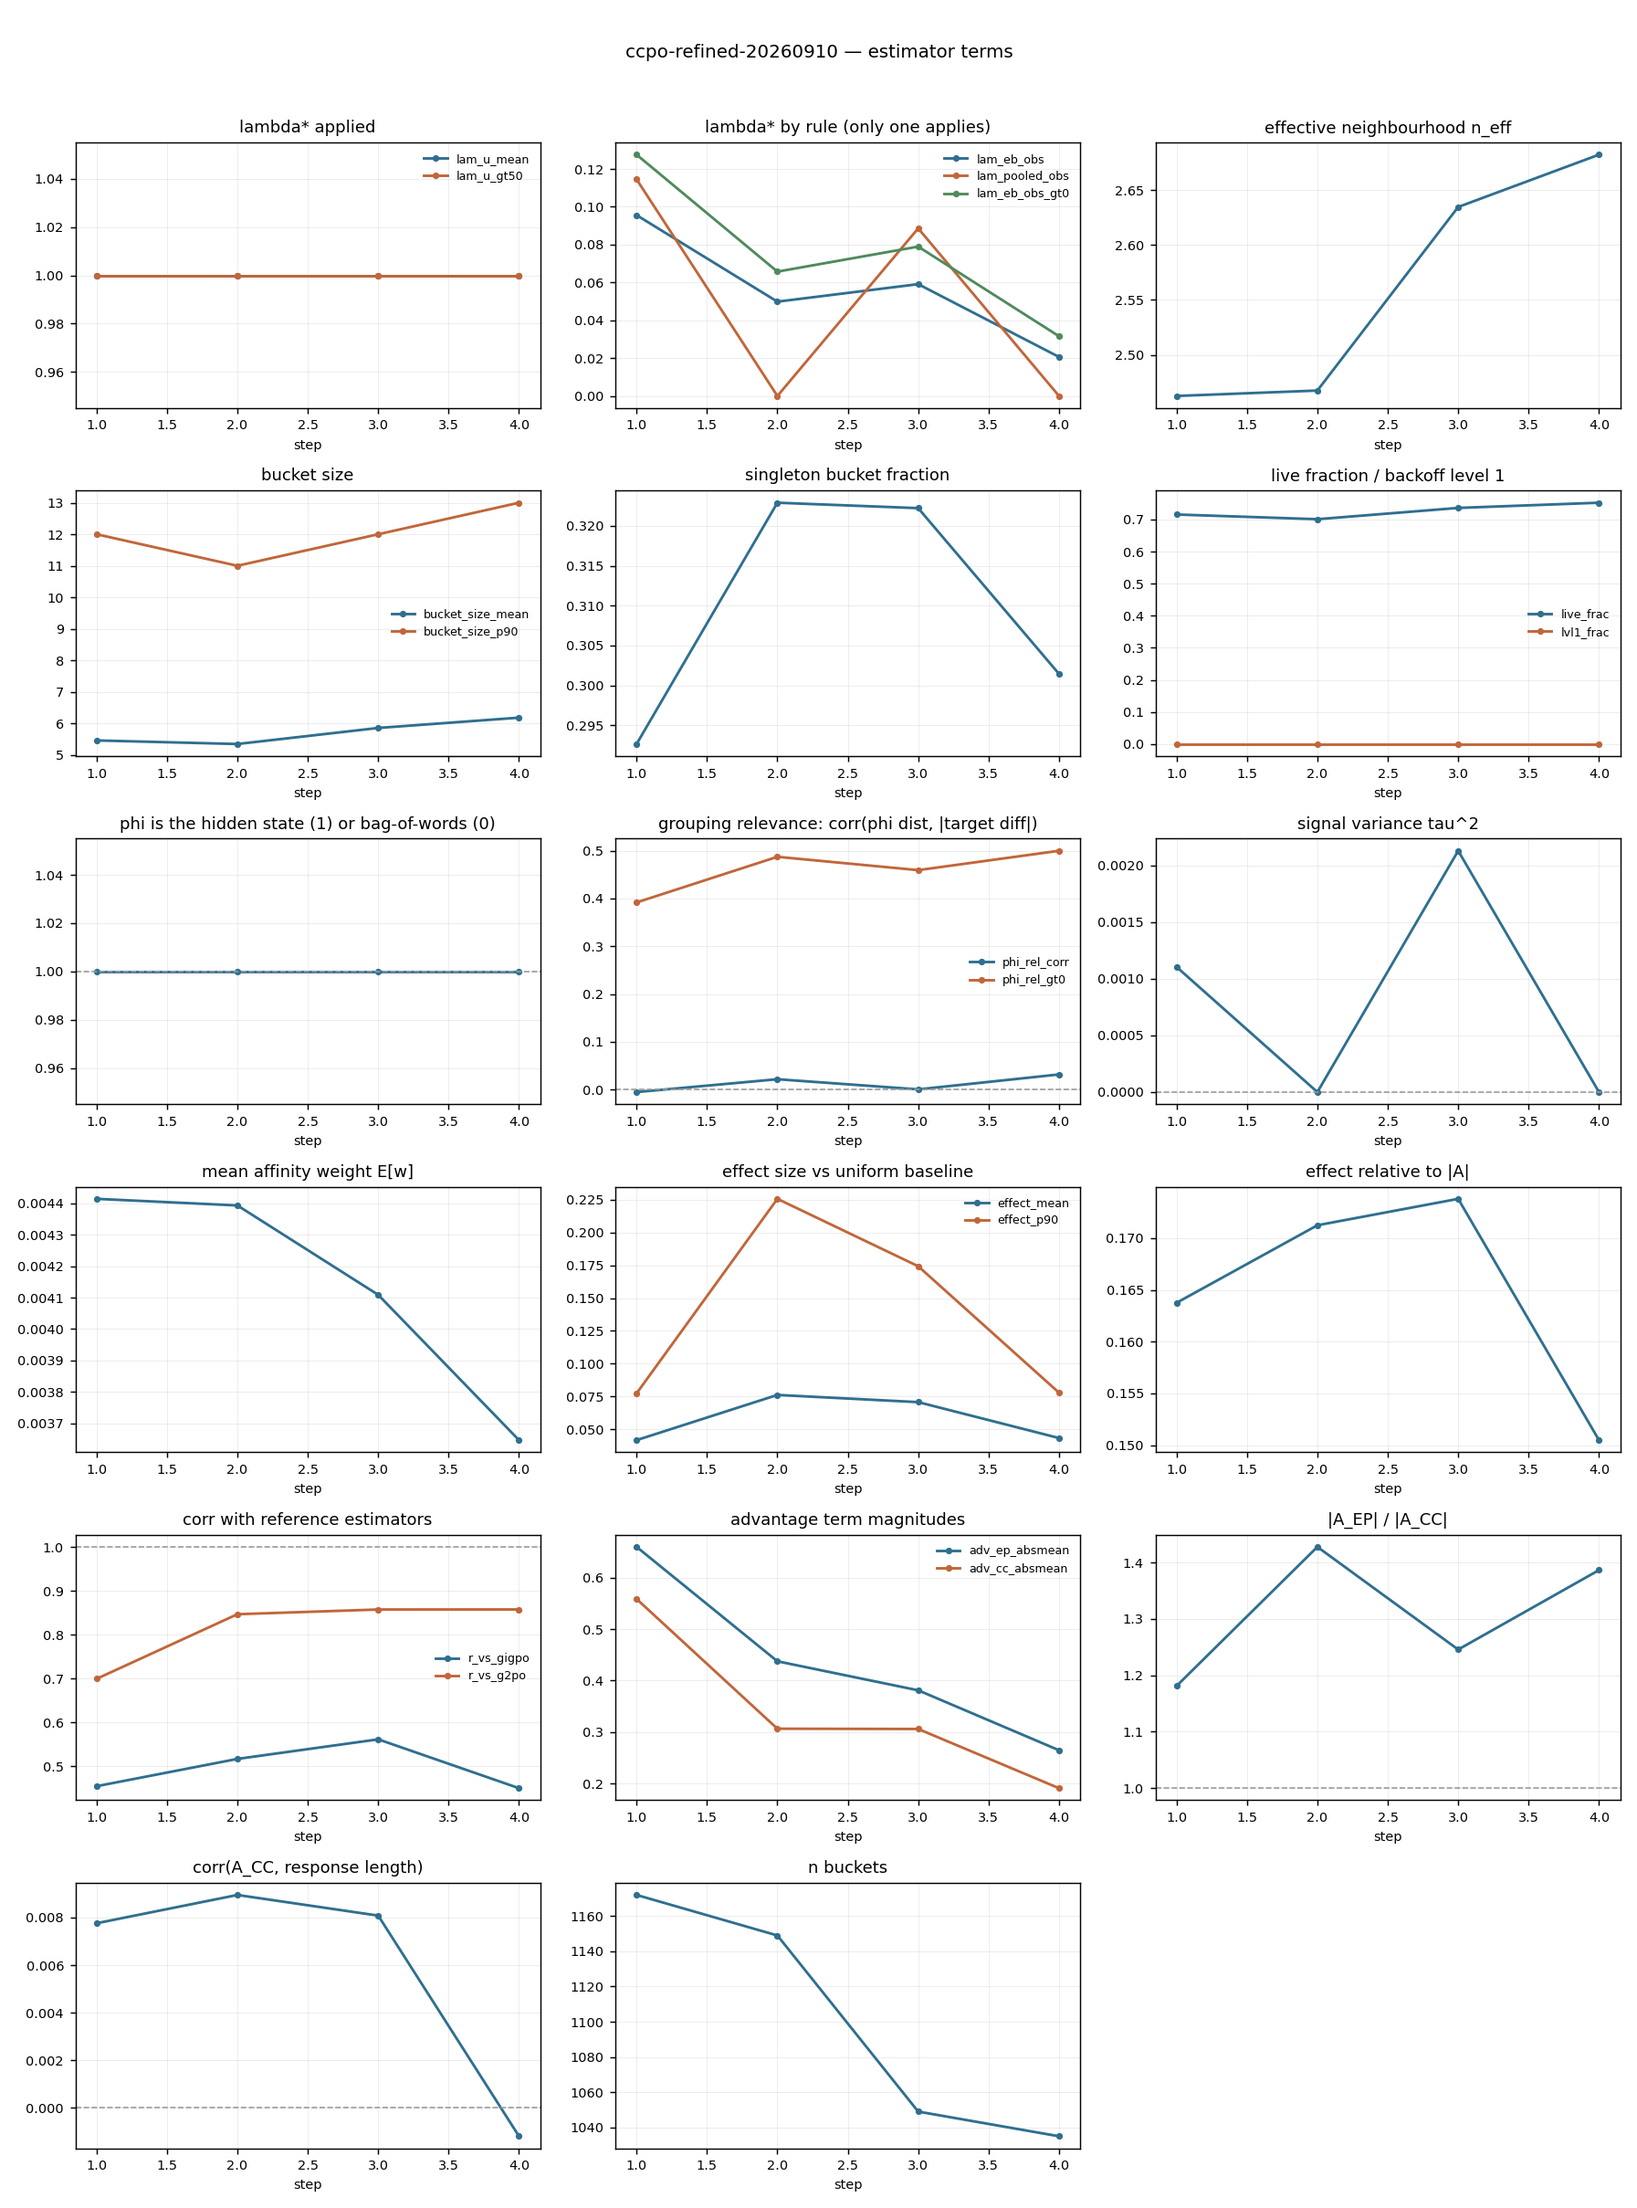
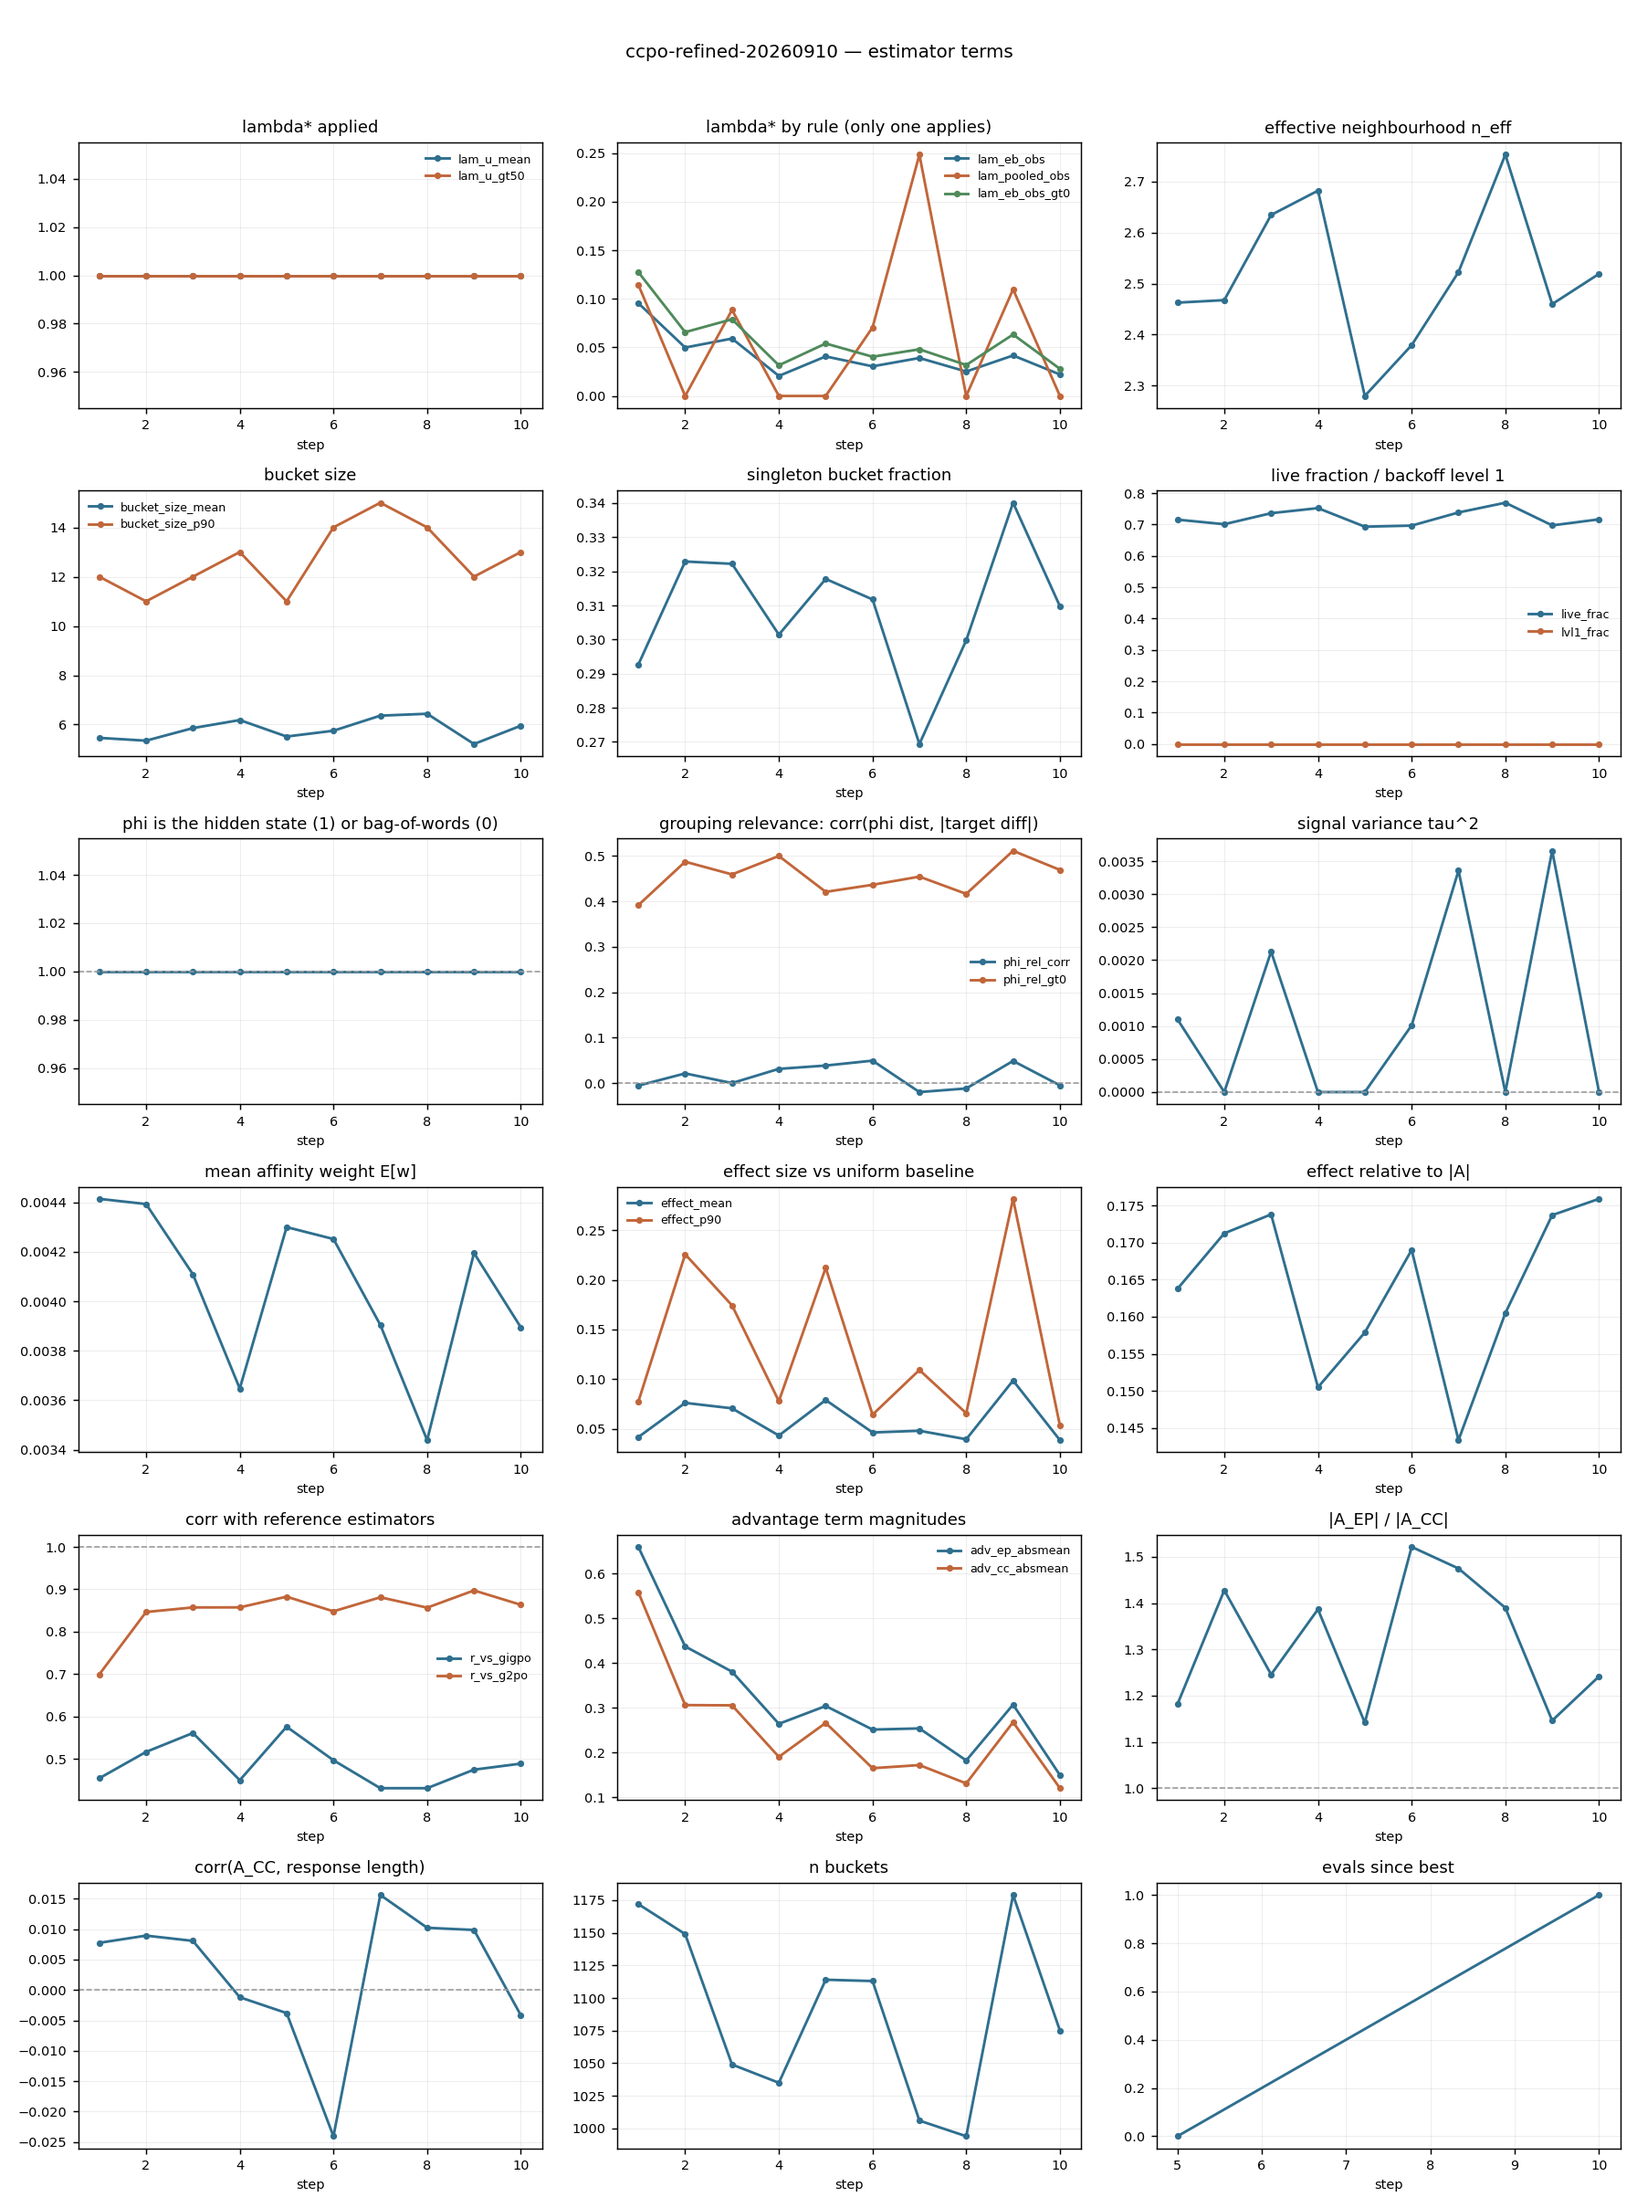
Pre-register ccpo-refined's kill rule and H-AL decision at step 10
Every other arm today had a kill rule fixed in advance; this one had only exp_run's
generic early stopping. At step 20, against base's 21.1, the arm stops if held-out is
below 11% -- the threshold used for ccpo-anchor, which shares this partition -- and
otherwise runs to 50, since the question it answers is only settled against g2po-aff.
The queue behind it waits on it, so running a failing arm to 100 would hold GPUs 0-3 for
about nine hours unnecessarily.

The H-AL decision at step 20 is recorded separately: tau2 positive on at least 11 of the
first 20 steps launches ccpo-refined-eb. The two are independent -- the arm can fail its
kill rule while still passing H-AL, which would be the strongest case for the eb arm.
Fixed at step 10, with tau2 at 5/10 and both held-out evaluations within noise.

Claude-Session: https://claude.ai/code/session_01Eywpmpzk7tuN6B1qiJfqQk

diff --git a/experiments/ccpo-refined-20260910/NOTES.md b/experiments/ccpo-refined-20260910/NOTES.md
@@ -77,3 +77,26 @@ when affordances are added).
 **Only one step. Tracked automatically; do not quote until it has run 20+.**
 
 See H-AL in `experiments/hypothesis.md` for what it would imply.
+
+## Kill rule and H-AL decision — fixed at step 10, BEFORE step 20 exists
+
+Held-out so far: step 5 7.8 (base 10.2), step 10 7.0 (base 10.9) — both within noise.
+tau2 positive on 5/10 steps.
+
+**At step 20 (base there = 21.1):**
+
+* **STOP** if held-out < 11% — more than 2 SE below base, i.e. clearly failing. This is the
+  same threshold used for `ccpo-anchor`, which shares this partition. The queue behind
+  this arm waits on it, so running a failing arm to 100 costs ~9 h of GPUs 0-3.
+* Otherwise **run to 50** and judge against base's 50.0. The question this arm answers
+  (phi-weighting vs uniform inside the same node) is only settled against `g2po-aff`,
+  which is queued behind it — so a middling result here is not a reason to continue
+  past 50 on its own.
+
+**H-AL at step 20:** tau2 > 0 on **>= 11/20** steps -> launch `ccpo-refined-eb`
+(`shrink=eb` on this partition, the defensible data-driven version). Otherwise H-AL is dead
+and H-AK stands as written. Currently 5/10.
+
+These decisions are independent: the arm can fail its kill rule and still pass H-AL (the
+partition carries structure even if forced lambda=1 misuses it), which would be the
+strongest possible argument for the `eb` arm.
